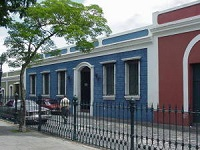
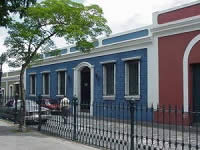
index 3.6

diff --git a/index.html b/index.html
@@ -48,9 +48,9 @@
           was able to learn a lot about the gospel and I was able to teach many people. In 2013 I obtained a
           Bachelor's degree in Administration with a
           mention in Computer Science. Now I am still a student to update my knowledge.</p>
-        <img src="images/profile.jpg" alt="Ovidio J. Luces" width="200">
+        <img src="images/profile.jpg" alt="Ovidio J. Luces" width="200" height="239">
         <h3>Ciudad Bolivar - Venezuela</h3>
-        <img src="images/casapiar.jpg" alt="Casa Piar in Ciudad Bolivar" width="200">
+        <img src="images/casapiar.jpg" alt="Casa Piar in Ciudad Bolivar" width="200" height="150">
         <p>Ciudad Bolívar is one of the cities in the country that holds the most history within its streets, plazas,
           and museums.
           Formerly known as Angostura, due to its location at one of the narrowest points of the mighty Orinoco River,